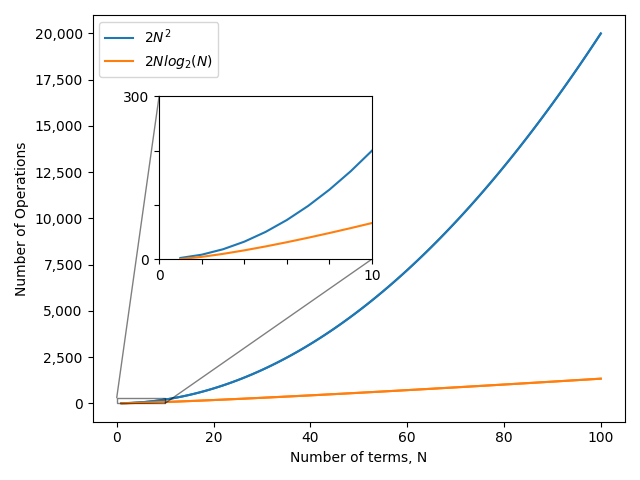
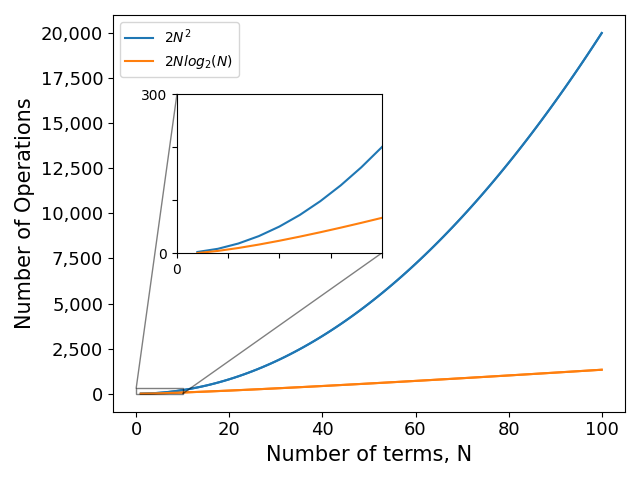
updated manuscript figures - font sizes for titles, ticks, and labels

diff --git a/manuscript/src/manuscript_figures.py b/manuscript/src/manuscript_figures.py
@@ -226,11 +226,12 @@ f, axs = plt.subplots(nrows=NROWS,ncols=NCOLS,
 axs.plot(n, O_2N2, label="$2N^2$", color=CLRS[0])
 axs.plot(n, O_2NlgN, label="$2Nlog_2(N)$", color=CLRS[1])
 # axs.set_title("")
-axs.set_ylabel("Number of Operations")
-axs.set_xlabel("Number of terms, N")
+axs.set_ylabel("Number of Operations", fontsize=TITLEFONT)
+axs.set_xlabel("Number of terms, N", fontsize=TITLEFONT)
 ytick_values = plt.gca().get_yticks()
 axs.set_yticklabels(['{:,.0f}'.format(x) for x in ytick_values])
 axs.legend()
+axs.tick_params(axis='both', which='major', labelsize=TICKSFONT)
 
 # inset setup
 x1, x2, y1, y2 = 0, 10, 0, 300
@@ -256,13 +257,14 @@ f, axs = plt.subplots(nrows=NROWS,ncols=NCOLS,
 axs.plot(t, sig_noisy, label="Noisy raw signal")
 axs.plot([],[], label="Signal 1")
 axs.plot([],[], label="Signal 2")
-axs.set_xlabel("Time, s")
-axs.set_ylabel("Amplitude")
+axs.set_xlabel("Time, s", fontsize=TITLEFONT)
+axs.set_ylabel("Amplitude", fontsize=TITLEFONT)
 axs.set_ylim([-3,8])
 axs.legend()
+axs.tick_params(axis='both', which='major', labelsize=TICKSFONT)
 
 # inset plot
-inset_axs = f.add_axes([0.2, 0.62, 0.3, 0.3])
+inset_axs = f.add_axes([0.2, 0.56, 0.3, 0.3])
 inset_axs.plot(t, sig_noisy, color=CLRS[0])
 inset_axs.plot(t, sig1, color=CLRS[1])
 inset_axs.plot(t, sig2, color=CLRS[2])
@@ -278,9 +280,10 @@ f, axs = plt.subplots(nrows=NROWS,ncols=NCOLS,
                       figsize=(NCOLS*FIGWIDTH,NROWS*FIGHEIGHT))
 
 axs.plot(t, sig_noisy)
-axs.set_title("(a)", loc='left')
-axs.set_xlabel("Time, s")
-axs.set_ylabel("Amplitude")
+axs.set_title("(a)", loc='left', fontsize=TITLEFONT)
+axs.set_xlabel("Time, s", fontsize=TITLEFONT)
+axs.set_ylabel("Amplitude", fontsize=TITLEFONT)
+axs.tick_params(axis='both', which='major', labelsize=TICKSFONT)
 
 f.tight_layout()
 f.savefig("figures/3a.original_noisy_raw_signal.png")
@@ -291,9 +294,10 @@ f, axs = plt.subplots(nrows=NROWS,ncols=NCOLS,
                       figsize=(NCOLS*FIGWIDTH,NROWS*FIGHEIGHT))
 
 axs.plot(frqshftd, np.abs(fftnoisyshftd))
-axs.set_title("(b)", loc='left')
-axs.set_xlabel("Frequency, Hz")
-axs.set_ylabel("Magnitude")
+axs.set_title("(b)", loc='left', fontsize=TITLEFONT)
+axs.set_xlabel("Frequency, Hz", fontsize=TITLEFONT)
+axs.set_ylabel("Magnitude", fontsize=TITLEFONT)
+axs.tick_params(axis='both', which='major', labelsize=TICKSFONT)
 
 f.tight_layout()
 f.savefig("figures/3b.normalized_magnitude_center-shifted_fft.png")
@@ -305,9 +309,10 @@ f, axs = plt.subplots(nrows=NROWS,ncols=NCOLS,
 
 axs.plot(frqshftd, psd_noisy_norm)
 # justify title to the left
-axs.set_title("(c)", loc='left')
-axs.set_xlabel("Frequency, Hz")
-axs.set_ylabel("Normalized Power, AU")
+axs.set_title("(c)", loc='left', fontsize=TITLEFONT)
+axs.set_xlabel("Frequency, Hz", fontsize=TITLEFONT)
+axs.set_ylabel("Normalized Power, AU", fontsize=TITLEFONT)
+axs.tick_params(axis='both', which='major', labelsize=TICKSFONT)
 
 f.tight_layout()
 f.savefig("figures/3c.normalized_power_spctral_density.png")
